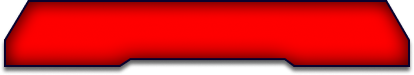
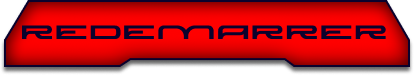
restart

Changed region(s): [[0.029, 0.32, 0.9565, 0.5333]]

diff --git a/bateau.css b/bateau.css
@@ -281,22 +281,25 @@ h2 {
     background-repeat: no-repeat;
 }
 
+/* Barre de chargement */
 .progress-bar-container {
-    width: 60%;
-    height: 0.75rem;
-    background-color: var(--midnight);
-    border: 2.5px solid var(--cyan);
-    box-shadow: 0 0 5px 2.5px var(--cyan);
-    overflow: hidden;
-    margin-top: 0.5rem;
-    margin-bottom: 10px;
+    width: 80%; /* Largeur totale de la barre */
+    height: 20px; /* Hauteur de la barre */
+    background-color: #ccc; /* Couleur de fond */
+    border: 2px solid #000; /* Bordure */
+    border-radius: 10px; /* Coins arrondis */
+    overflow: hidden; /* Empêche le débordement */
+    display: flex;
+    justify-content: flex-start;
+    align-items: center;
+    margin: 0 auto; /* Centre horizontalement */
 }
 
 .progress-bar {
+    width: 20%; /* Départ de la barre */
     height: 100%;
-    width: 0%;
-    background-color: var(--sunlight);
-    transition: width 0.3s ease;
+    background-color: green; /* Couleur de la barre */
+    transition: width 3s ease; /* Animation fluide sur 3 secondes */
 }
 
 .progress-bar-2 {
@@ -556,3 +559,73 @@ h2 {
 .confirm-button:active .confirm-image {
     transform: translateY(10px);
 }
+
+/* Fenêtre d'alerte */
+.alert-screen.hidden {
+    display: none;
+}
+
+.alert-screen {
+    position: fixed;
+    top: 0;
+    left: 0;
+    width: 100%;
+    height: 100%;
+    background-size: cover;
+    background-position: center;
+    display: flex;
+    justify-content: center;
+    align-items: center;
+    z-index: 1000;
+}
+
+#alert-screen-1 {
+    background-image: url('./assets/images/alert1.png');
+}
+
+#alert-screen-2 {
+    background-image: url('./assets/images/alert2.png');
+}
+
+.restart-section{
+    position: absolute;
+    bottom: 15%;
+}
+
+/* Bouton Redémarrer */
+.restart-button {
+    position: relative;
+    cursor: pointer;
+    display: flex;
+    justify-content: center;
+    align-items: center;
+    overflow: hidden;
+    width: 250px; /* Augmente la largeur du bouton */
+    height: 100px; /* Augmente la hauteur du bouton */
+}
+
+.button-image {
+    position: absolute;
+    top: 0;
+    left: 0;
+    width: 100%; /* Adapte à la taille du bouton */
+    height: 100%; /* Adapte à la taille du bouton */
+    object-fit: contain;
+    z-index: 1;
+}
+
+.restart-image {
+    position: absolute;
+    top: 0;
+    left: 0;
+    width: 90%; /* Ajuste la taille de l'image interne */
+    height: 90%; /* Ajuste la taille de l'image interne */
+    object-fit: contain;
+    z-index: 2;
+    transition: transform 0.1s ease;
+}
+
+.restart-button:active .restart-image {
+    transform: translateY(10px);
+}
+

diff --git a/bateau.js b/bateau.js
@@ -593,6 +593,43 @@ document.getElementById('confirm-button').addEventListener('click', () => {
   }
 });
 
+document.addEventListener('DOMContentLoaded', () => {
+  const alertScreen1 = document.getElementById('alert-screen-1');
+  const restartButton = document.getElementById('restart-button');
+
+  // Passe au jeu 1 lorsque le bouton "Redémarrer" est cliqué
+  restartButton.addEventListener('click', () => {
+      alertScreen1.classList.add('hidden'); // Cache l'écran d'alerte
+      document.querySelector('.container-1').style.display = 'grid'; // Affiche le jeu 1
+      startRandomSquareGame(); // Démarre le jeu 1
+  });
+});
+
+document.addEventListener('DOMContentLoaded', () => {
+    const alertScreen1 = document.getElementById('alert-screen-1');
+    const alertScreen2 = document.getElementById('alert-screen-2');
+    const restartButton = document.getElementById('restart-button');
+    const progressBar = document.querySelector('.progress-bar');
+
+    // Passe à la deuxième alerte avec une barre de chargement
+    restartButton.addEventListener('click', () => {
+        alertScreen1.classList.add('hidden'); // Cache la première alerte
+        alertScreen2.classList.remove('hidden'); // Affiche la deuxième alerte
+
+        // Démarre l'animation de la barre de chargement
+        setTimeout(() => {
+            progressBar.style.width = '100%'; // Remplit la barre
+        }, 100);
+
+        // Passe au jeu 1 après la fin de la barre de chargement
+        setTimeout(() => {
+            alertScreen2.classList.add('hidden'); // Cache la deuxième alerte
+            document.querySelector('.container-1').style.display = 'grid'; // Affiche le jeu 1
+            startRandomSquareGame(); // Démarre le jeu 1
+        }, 3100); // Temps de chargement (3 secondes + un léger délai)
+    });
+});
+
 // =========================================================================
 // INITIALIZATION
 // =========================================================================

diff --git a/index.html b/index.html
@@ -111,6 +111,23 @@
         </div>
     </div>
 
+    <div id="alert-screen-1" class="alert-screen">
+        <div class="restart-section">
+            <div id="restart-button" class="confirm-button">
+                <img src="./assets/images/button1.png" alt="Button" class="button-image">
+                <img src="./assets/images/redemarrer.png" alt="Redémarrer" class="confirm-image">
+            </div>
+        </div>
+    </div>
+
+    <div id="alert-screen-2" class="alert-screen hidden">
+        <div class="loading-section">
+            <div class="progress-bar-container">
+                <div class="progress-bar"></div>
+            </div>
+        </div>
+    </div>
+
     <script type="module" src="bateau.js"></script>
 </body>
 
